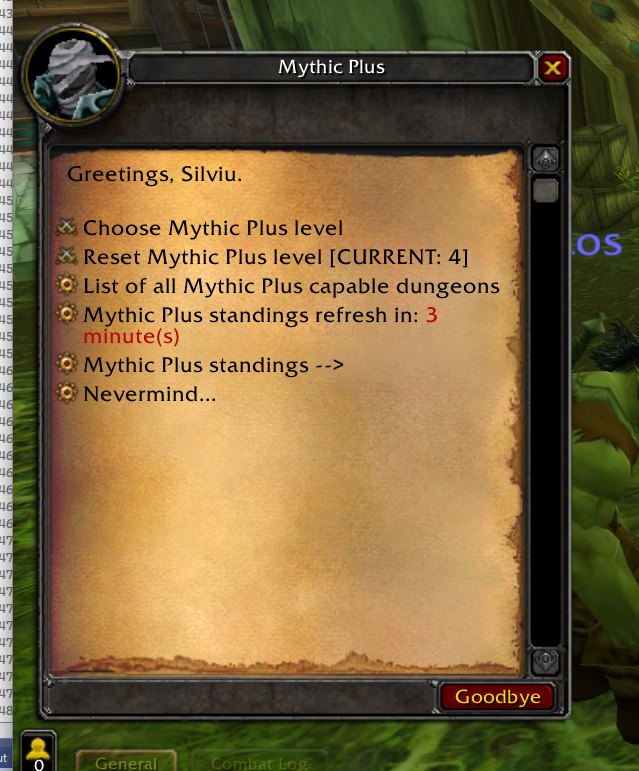
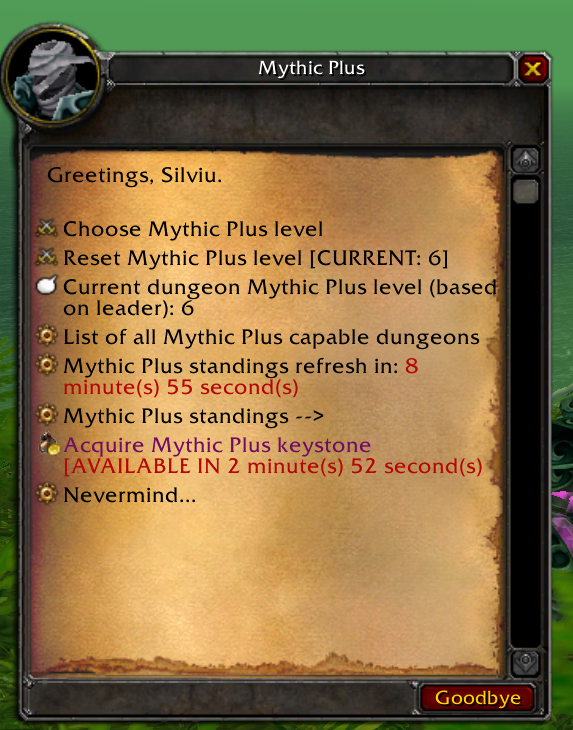
Show keystone buy timer in gossip menu

diff --git a/src/mythic_plus_npc_support.cpp b/src/mythic_plus_npc_support.cpp
@@ -91,7 +91,22 @@ void MythicPlusNpcSupport::AddMainMenu(Player* player, Creature* creature)
 
     Identifier* keystoneIdnt = new Identifier();
     keystoneIdnt->id = 8;
-    keystoneIdnt->uiName = MythicPlus::Utils::Colored("Acquire Mythic Plus keystone", "700c63");
+    std::ostringstream koss;
+    koss << MythicPlus::Utils::Colored("Acquire Mythic Plus keystone", "700c63");
+    if (sMythicPlus->GetKeystoneBuyTimer() > 0)
+    {
+        uint32 playerKeystoneBuyTimer = sMythicPlus->GetKeystoneBuyTimer(player);
+        std::string available = MythicPlus::Utils::GreenColored(" [AVAILABLE NOW]");
+        if (playerKeystoneBuyTimer > 0)
+        {
+            uint64 now = MythicPlus::Utils::GameTimeCount();
+            uint64 diff = now - playerKeystoneBuyTimer;
+            if (diff < sMythicPlus->GetKeystoneBuyTimer() * 60)
+                available = MythicPlus::Utils::RedColored(" [AVAILABLE IN " + secsToTimeString(sMythicPlus->GetKeystoneBuyTimer() * 60 - diff));
+        }
+        koss << available;
+    }
+    keystoneIdnt->uiName = koss.str();
     keystoneIdnt->optionIcon = GOSSIP_ICON_MONEY_BAG;
     pagedData.data.push_back(keystoneIdnt);
 
@@ -530,9 +545,13 @@ bool MythicPlusNpcSupport::TakePagedDataAction(Player* player, Creature* creatur
         }
         else if (action == 8)
         {
-            sMythicPlus->GiveKeystone(player);
-            CloseGossipMenuFor(player);
-            return true;
+            if (sMythicPlus->GiveKeystone(player))
+            {
+                CloseGossipMenuFor(player);
+                return true;
+            }
+            else
+                return OnGossipHello(player, creature);
         }
         else if (action == 9)
         {

diff --git a/src/mythic_plus.cpp b/src/mythic_plus.cpp
@@ -926,3 +926,11 @@ void MythicPlus::RewardKeystone(Player* player) const
 
     player->AddItem(KEYSTONE_ENTRY, 1);
 }
+
+uint64 MythicPlus::GetKeystoneBuyTimer(const Player* player) const
+{
+    if (charKeystoneBuyTimers.find(Utils::PlayerGUID(player)) != charKeystoneBuyTimers.end())
+        return charKeystoneBuyTimers.at(Utils::PlayerGUID(player));
+
+    return 0;
+}

diff --git a/src/mythic_plus.h b/src/mythic_plus.h
@@ -234,6 +234,7 @@ public:
     {
         return keystoneBuyTimer;
     }
+    uint64 GetKeystoneBuyTimer(const Player* player) const;
     bool GetDropKeystoneOnCompletion() const
     {
         return dropKeystoneOnCompletion;
